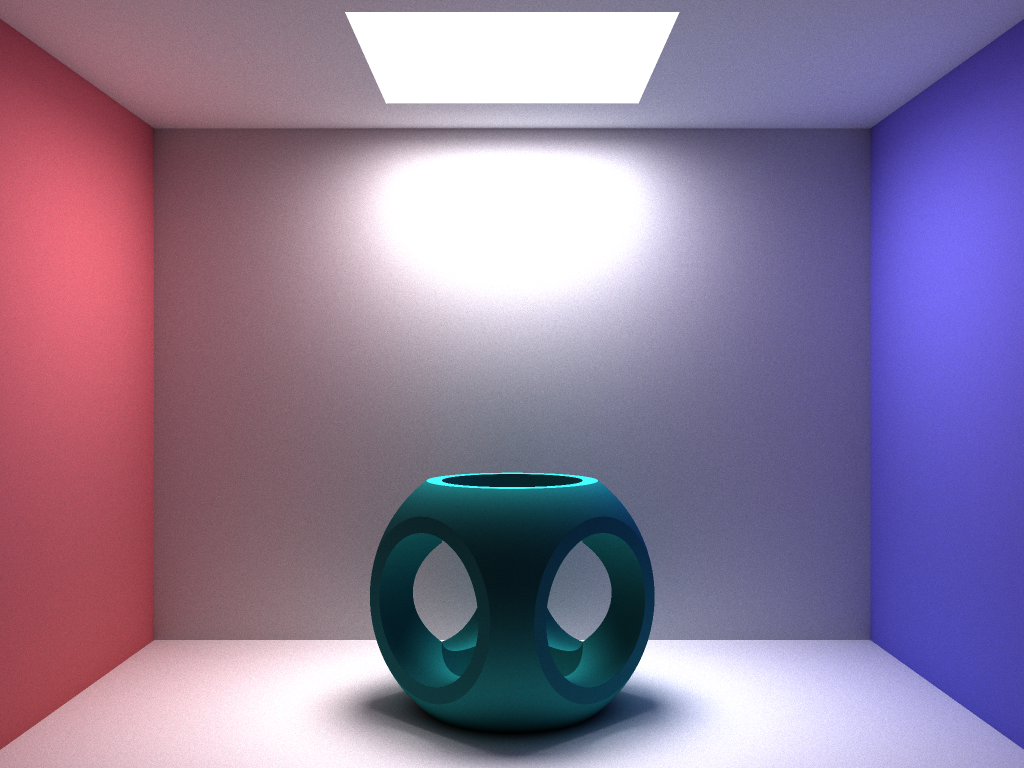
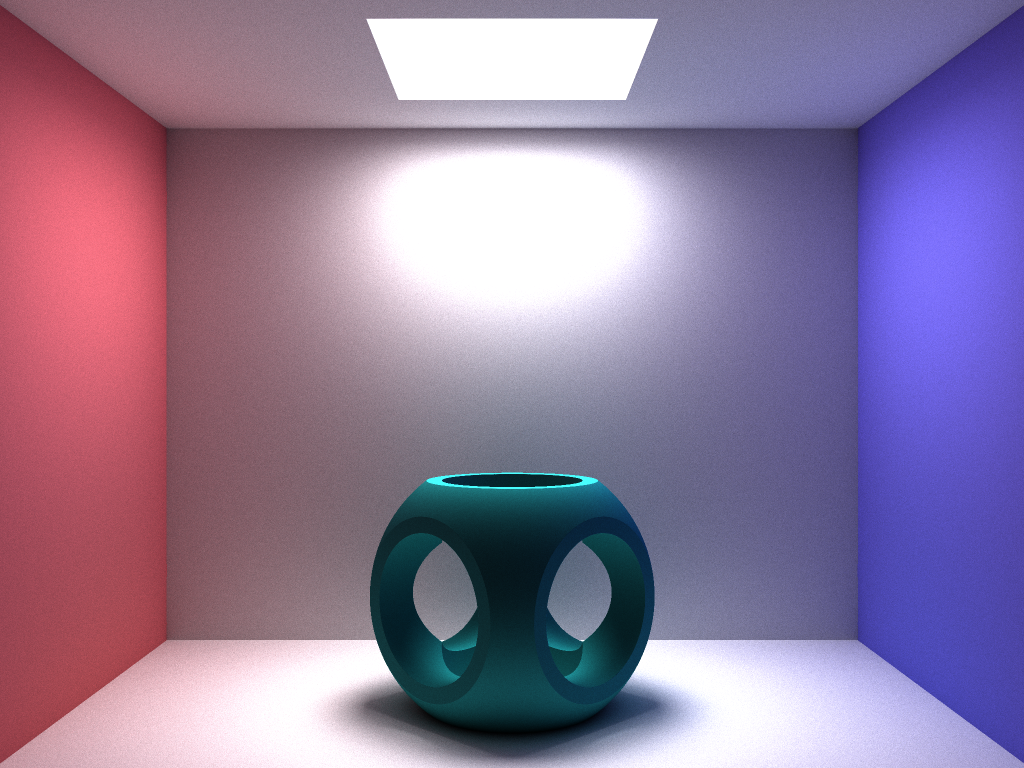
octree disabled | WIP

diff --git a/basicObjects.cpp b/basicObjects.cpp
@@ -1,7 +1,7 @@
 #include <cstdio>
 #include <cfloat>
 #include <cmath>
-#include "octree.hpp"
+#include "basicObjects.hpp"
 #include "prng.hpp"
 
 uint64_t Object::sLastKnownObjectID=0;
@@ -475,6 +475,16 @@ static inline void ui64toVec3f(uint64_t uval, Vec3f &result)
 	result.Z=rn.fpv;
 }
 
+void Ray::Reset()
+{
+	Color.X=
+	Color.Y=
+	Color.Z=0.0f;
+	pFirstCollisionPoint.X=
+	pFirstCollisionPoint.Y=
+	pFirstCollisionPoint.Z=0.0f;
+}
+
 void Ray::Trace()
 {
 	Vec3f ColorSample(1.0, 1.0, 1.0);
@@ -486,7 +496,7 @@ void Ray::Trace()
 	const Object *TransparentObject=nullptr;
 	Vec3f Direction=pDefaultDirection;
 
-	if(pFirstCollisionPoint.X==0 && pFirstCollisionPoint.Y==0 && pFirstCollisionPoint.Z==0)
+	if(pFirstCollisionPoint.X==0.0f && pFirstCollisionPoint.Y==0.0f && pFirstCollisionPoint.Z==0.0f)
 	{
 		if(RunOnce(pPosition, Direction, nullptr))
 		{
@@ -547,26 +557,22 @@ void Ray::Trace()
 
 const Object *Ray::RunOnce(Vec3f &position, Vec3f direction, const Object *skip)
 {
+	uint32_t obj_total=SceneObjects->size();
 	uint32_t StepsTaken=0;
-	const OctreeNode *Node=SceneTree->GetClosestLeafNode(position);
 	while(StepsTaken++<Ray::STEPS_PER_RUN_LIMIT)
 	{
 		float minDistance=FLT_MAX, Distance;
 		const Object *ClosestObject=nullptr;
-		if(!Node->Contains(position))
-		{
-			Node=SceneTree->GetClosestLeafNode(position);
-		}
 		uint32_t obj=0;
-		while(obj<OctreeNode::OBJECTS_PER_NODE)
+		while(obj<obj_total)
 		{
-			if(skip!=Node->objects[obj])
+			if(skip!=SceneObjects->at(obj) && SceneObjects->at(obj)->Visible())
 			{
-				Distance=Node->objects[obj]->GetDistance(position);
+				Distance=SceneObjects->at(obj)->GetDistance(position);
 				if(minDistance>Distance)
 				{
 					minDistance=Distance;
-					ClosestObject=Node->objects[obj];
+					ClosestObject=SceneObjects->at(obj);
 				}
 			}
 			obj++;

diff --git a/main.cpp b/main.cpp
@@ -1,6 +1,7 @@
 #include <fcntl.h>
 #include <sys/ioctl.h>
 #include <unistd.h>
+#include <cmath>
 #include "scene.hpp"
 
 Scene *NewScene;
@@ -45,6 +46,7 @@ int main(int argc, char *argv[])
 
 	Difference *Construct=new Difference(ShpereCubeIntersection, Cylinders2);
 	Construct->SetColor(30, 130, 130);
+	// Construct->SetSpecularity(0.25);
 
 	// ======== CSG: gyroid in sphere
 	Sphere *NewSphere3=new Sphere();
@@ -70,26 +72,27 @@ int main(int argc, char *argv[])
 
 	Intersection *SphereSchwarzIntersection=new Intersection(NewSphere4, NewSchwarzPrimitive);
 	SphereSchwarzIntersection->SetColor(30, 130, 130);
+	SphereSchwarzIntersection->SetSpecularity(0.25);
 
 	// ======== primitives
 	Cylinder *Cylinder2=new Cylinder();
 	Cylinder2->SetLength(56);
 	Cylinder2->SetRadius(28);
 	Cylinder2->SetPosition(80, 50, ObjectZpos);
-	Cylinder2->SetSpecularity(0.5);
+	Cylinder2->SetSpecularity(0.25);
 	Cylinder2->SetColor(240, 18, 240);
 
 	Cube *Cube2=new Cube();
 	Cube2->SetLength(56);
 	Cube2->SetPosition(80, 50, ObjectZpos);
-	Cube2->SetSpecularity(0.5);
+	Cube2->SetSpecularity(0.25);
 	Cube2->SetColor(150, 10, 150);
 
 	Torus *Torus1=new Torus();
 	Torus1->SetRadius1(34);
 	Torus1->SetRadius2(10);
 	Torus1->SetPosition(0, 50, ObjectZpos);
-	Torus1->SetSpecularity(0.5);
+	Torus1->SetSpecularity(0.25);
 	Torus1->SetColor(200, 200, 80);
 
 	Sphere *BlueSphere=new Sphere();
@@ -179,9 +182,8 @@ int main(int argc, char *argv[])
 	// NewScene->AddObject(Cube2);
 	// NewScene->AddObject(Torus1);
 
-	NewScene->RebuildSceneTree();
-
-	uint32_t i, samples_per_pixel=16;
+	char fileName[128];
+	int32_t i, samples_per_pixel=16;
 	for(i=0; i<10; i++, samples_per_pixel*=2)
 	{
 		// float spec=i*0.1;
@@ -189,6 +191,7 @@ int main(int argc, char *argv[])
 		// Cylinder1->SetOrientation(0, std::sin(i*M_PI_2/10.0), std::cos(i*M_PI_2/10.0));
 		// Cube2->SetOrientation(std::sin(i*M_PI_2/10.0), std::cos(i*M_PI_2/10.0), 0);
 		// Torus1->SetOrientation(0, std::sin(i*M_PI_2/10.0), std::cos(i*M_PI_2/10.0));
+		// NewSchwarzPrimitive->SetOrientation(std::sin(i*M_PI_2/40.0), 0, std::cos(i*M_PI_2/40.0));
 
 		// RedSphere->SetSpecularity(spec);
 		// GreenSphere->SetSpecularity(spec);
@@ -198,7 +201,7 @@ int main(int argc, char *argv[])
 		NewScene->SetSamplesPerPixel(samples_per_pixel);
 		NewScene->Render();
 
-		string fileName=string("render_")+to_string(samples_per_pixel)+string("_spp.png");
+		sprintf(fileName, "render_%02i_%i_spp.png", i, samples_per_pixel);
 		NewScene->RenderedImage.write(fileName);
 	}
 

diff --git a/scene.cpp b/scene.cpp
@@ -8,7 +8,6 @@
 
 Scene::Scene()
 {
-	SceneTree=new Octree;
 	SceneObjects=new vector <Object *>;
 
 	if(pRenderThreads<thread::hardware_concurrency())
@@ -27,7 +26,7 @@ Scene::Scene()
 		{
 			SceneRays.push_back(Ray());
 			SceneRays.back().SetDefaultDirection(X-pScreenWidth/2.0, Y-pScreenHeight/2.0, pScreenWidth);
-			SceneRays.back().SceneTree=this->SceneTree;
+			SceneRays.back().SceneObjects=this->SceneObjects;
 			SceneRays.back().PRNGSeedValue=pScreenHeight*pScreenWidth+X*X+Y*Y+X*Y;
 		}
 	}
@@ -43,15 +42,9 @@ Scene::~Scene()
 	}
 }
 
-void Scene::RebuildSceneTree()
-{
-	SceneTree->Build((vector <const Object *> *)(SceneObjects));
-}
-
 void Scene::AddObject(Object *object)
 {
 	this->SceneObjects->push_back(object);
-	object->SceneTree=this->SceneTree;
 }
 
 static void RayRunningWrapper(vector <Ray> *rays, uint64_t thread_id, uint64_t rays_per_thread, uint64_t samples_per_pixel)
@@ -59,7 +52,7 @@ static void RayRunningWrapper(vector <Ray> *rays, uint64_t thread_id, uint64_t r
 	uint64_t rayid, sample;
 	for(rayid=thread_id*rays_per_thread; rayid<(thread_id+1)*rays_per_thread; rayid++)
 	{
-		(*rays)[rayid].Color=Vec3f(0, 0, 0);
+		(*rays)[rayid].Reset();
 		for(sample=0; sample<samples_per_pixel; sample++)
 		{
 			(*rays)[rayid].Trace();

diff --git a/basicObjects.hpp b/basicObjects.hpp
@@ -2,9 +2,8 @@
 #define BASICOBJECTS_HPP
 
 #include <cstdint>
+#include <vector>
 #include "commonVectorFun.hpp"
-
-class Octree;
 
 using namespace std;
 
@@ -26,7 +25,6 @@ protected:
 	void UpdateBasis(const Vec3f &forward);
 public:
 	static constexpr float NORMAL_CALCULATION_DIST = 1.0/16.0;
-	Octree *SceneTree=nullptr;
 	Object();
 	bool Visible() const;
 	void SetVisible(bool visible);
@@ -156,12 +154,13 @@ class Ray
 	Vec3f pPosition;
 public:
 	Vec3f Color;
-	Octree *SceneTree=nullptr;
+	vector <Object *> *SceneObjects;
 	uint64_t PRNGSeedValue=0;
 	static constexpr float COLLISION_DISTANCE = 1.0f/16.0f;
 	static constexpr uint32_t STEPS_PER_RUN_LIMIT = 1024u;
 	static constexpr uint32_t REFLECTIONS_LIMIT = 7u;
 	void SetDefaultDirection(float x, float y, float z);
+	void Reset();
 	void Trace();
 	const Object *RunOnce(Vec3f &position, Vec3f direction, const Object *skip);
 };

diff --git a/scene.hpp b/scene.hpp
@@ -3,7 +3,7 @@
 
 #include <vector>
 #include <png++/png.hpp>
-#include "octree.hpp"
+#include "basicObjects.hpp"
 
 static constexpr uint64_t DefaultScreenWidth=2048;
 static constexpr uint64_t DefaultScreenHeight=1536;
@@ -12,7 +12,6 @@ static constexpr uint64_t DefaultSamplesPerPixel=8;
 
 class Scene
 {
-	Octree *SceneTree;
 	vector <Ray> SceneRays;
 	vector <Object *> *SceneObjects;
 	uint64_t pScreenWidth=DefaultScreenWidth;
@@ -24,7 +23,6 @@ public:
 	png::image<png::rgb_pixel> RenderedImage;
 	Scene();
 	~Scene();
-	void RebuildSceneTree();
 	void AddObject(Object *object);
 	void Render();
 	uint64_t ScreenWidth() const;